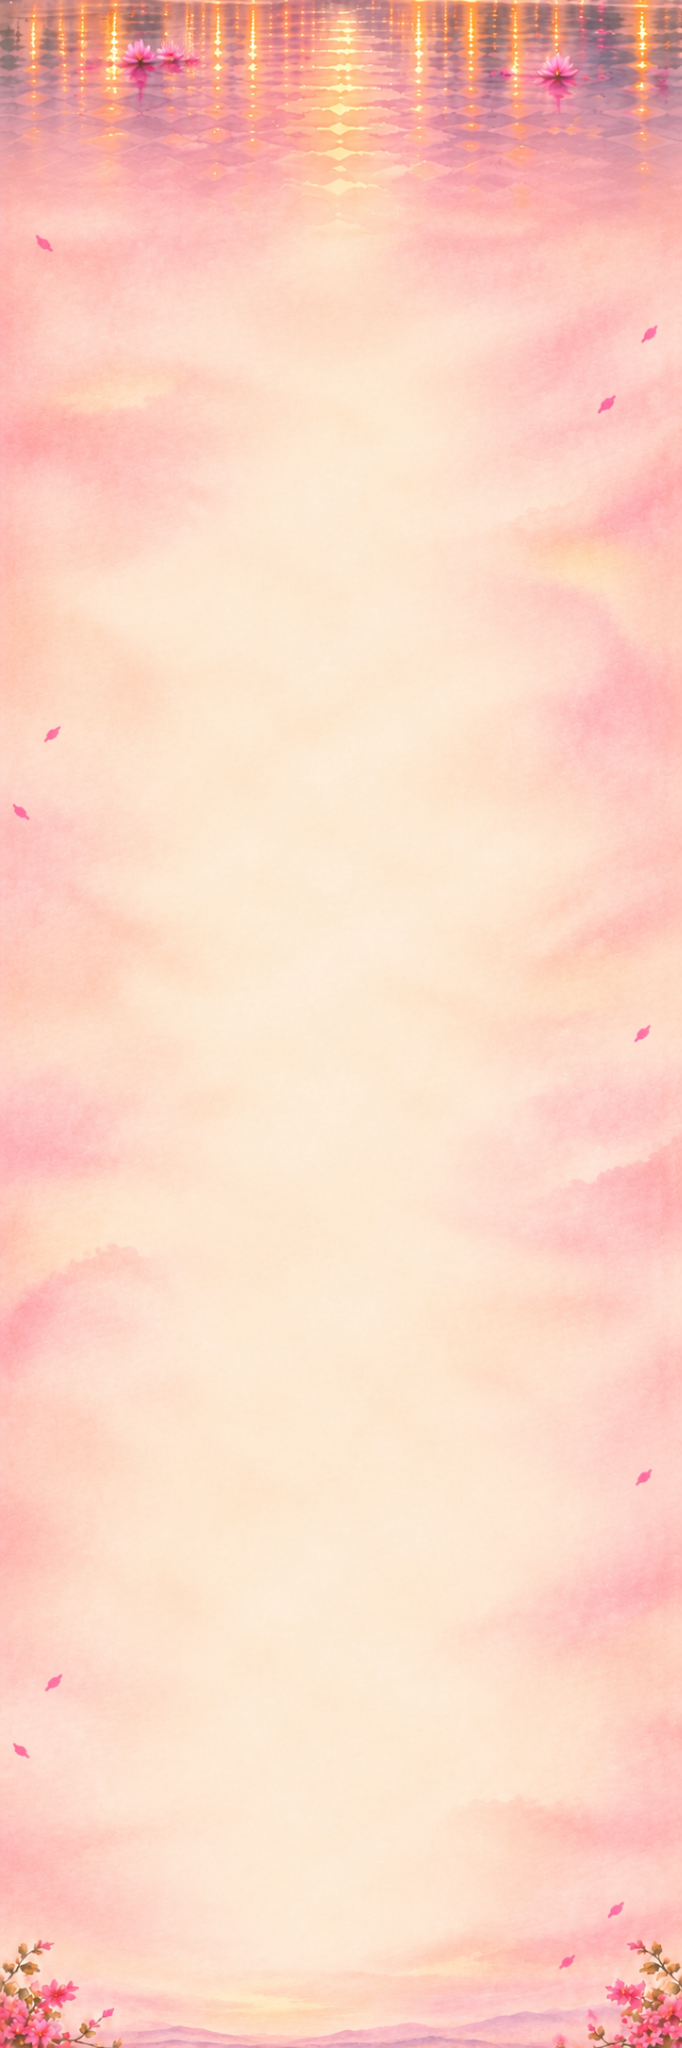
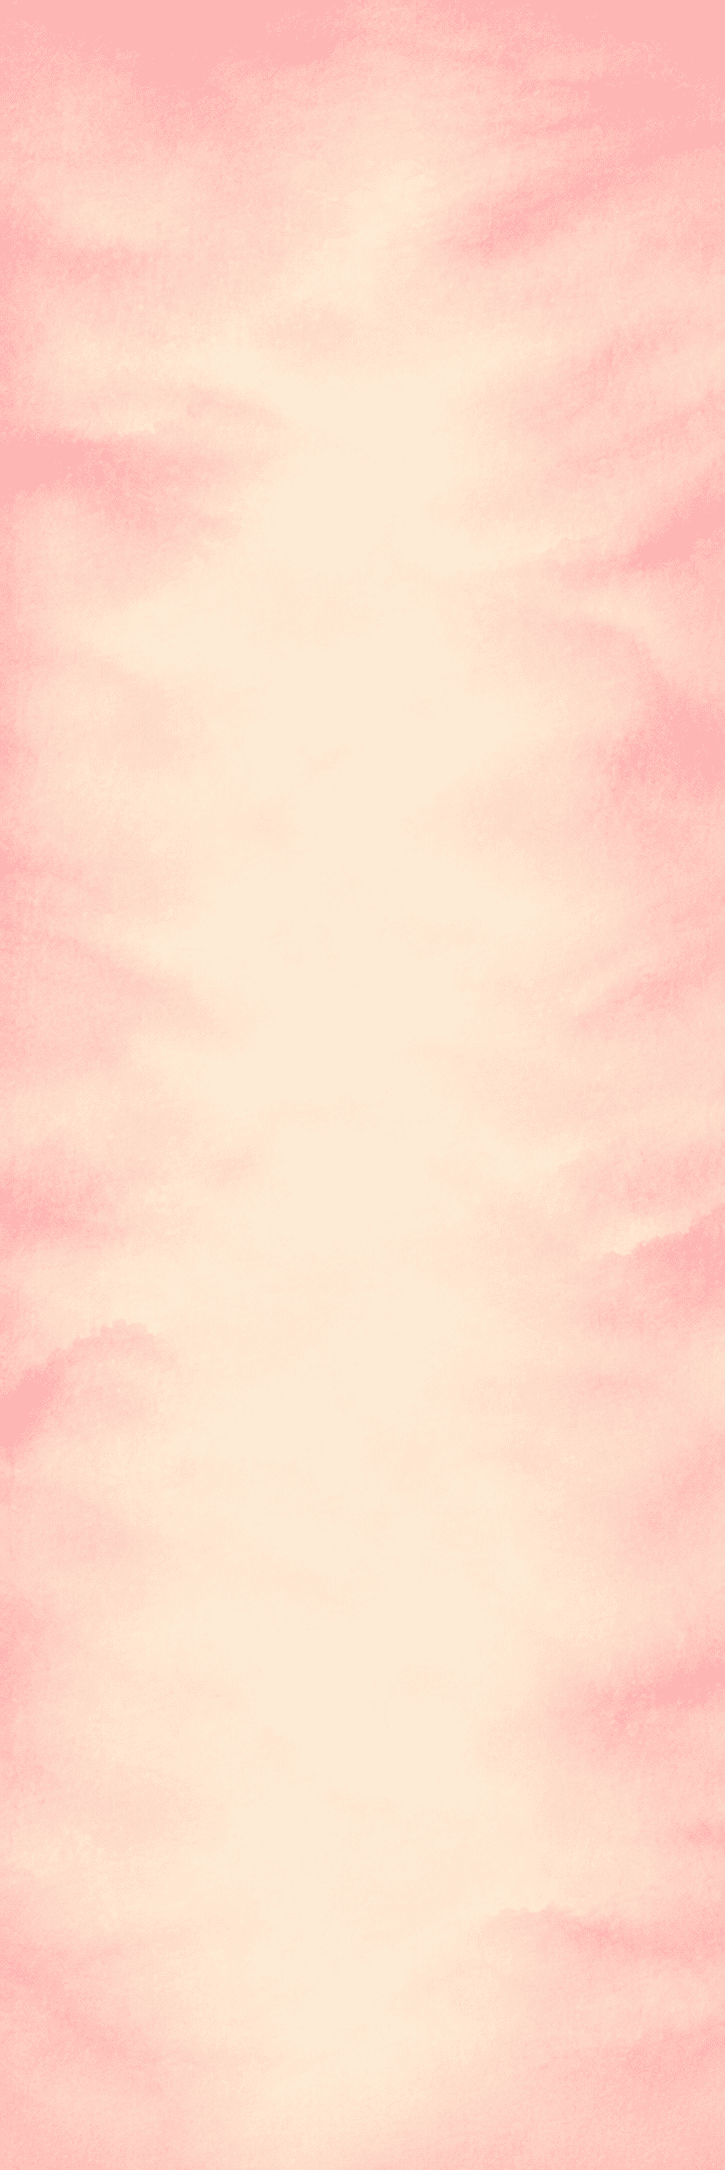
Add files via upload

diff --git a/index.html b/index.html
@@ -56,7 +56,7 @@
       </div>
     </section>
     <section class="events section-paper" id="events">
-      <header class="section-heading reveal"><p class="eyebrow">THE CELEBRATIONS</p><h2>Our Events</h2><p>Three beautiful moments. One lifetime of memories.</p><div class="heading-flourish"><img class="events-heading-ornament" src="assets/images/events-heading-ornament.png" alt="" aria-hidden="true"></div></header>
+      <header class="section-heading reveal"><h2>Our Events</h2><p>A celebration journey, in five ceremonies.</p><div class="heading-flourish"><img class="events-heading-ornament" src="assets/images/events-heading-ornament.png" alt="" aria-hidden="true"></div></header>
       <div class="event-list">
         <article class="katha-book reveal">
           <img class="katha-book-frame" src="assets/images/satyanarayan-book-frame.png" alt="" aria-hidden="true">
@@ -116,9 +116,9 @@
 
     <section class="gallery" id="gallery">
       <div class="gallery-heading reveal">
-        <p class="eyebrow">A FEW MOMENTS, FOREVER</p>
+        
         <h2>Painted moments</h2>
-        <p>A little album of the story we're writing.</p>
+        <p>A little album of the story we are writing.</p>
         <div class="gallery-heading-flourish"><img src="assets/images/events-heading-ornament.png" alt="" aria-hidden="true"></div>
       </div>
       <div class="gallery-layout reveal">
@@ -142,7 +142,7 @@
       <p class="section-index"><span>03</span> OUR MEMORIES</p>
     </section>
 
-    <section class="rsvp section-paper" id="rsvp" style="background-image: url('assets/images/painted-moments-background-1.png'); background-size: cover; background-position: center; background-repeat: no-repeat;">
+    <section class="rsvp section-paper" id="rsvp" style="background-image: url('assets/images/rsvp-page-background.png'); background-size: cover; background-position: center; background-repeat: no-repeat;">
       <div class="rsvp-decoration" aria-hidden="true">❦</div>
       <div class="rsvp-card reveal"><header class="section-heading"><h2>Will you be there?</h2><p>A seat at our table is already yours.</p></header>
         <form id="rsvpForm">

diff --git a/style.css b/style.css
@@ -53,9 +53,7 @@
 }
 .invitation-frame-art{position:absolute;inset:0;width:100%;height:100%;object-fit:fill;z-index:0;pointer-events:none}
 .invitation-frame-section:before{
-  content:"";position:absolute;z-index:1;left:0;right:0;top:0;height:130px;
-  background:linear-gradient(180deg,#f9e8e4 0%,#f9e8e4a8 35%,transparent 100%);
-  filter:blur(8px);pointer-events:none
+  display: none !important;
 }
 .invitation-text{
   position:absolute;z-index:2;left:50%;top:52%;transform:translate(-50%,-50%);
